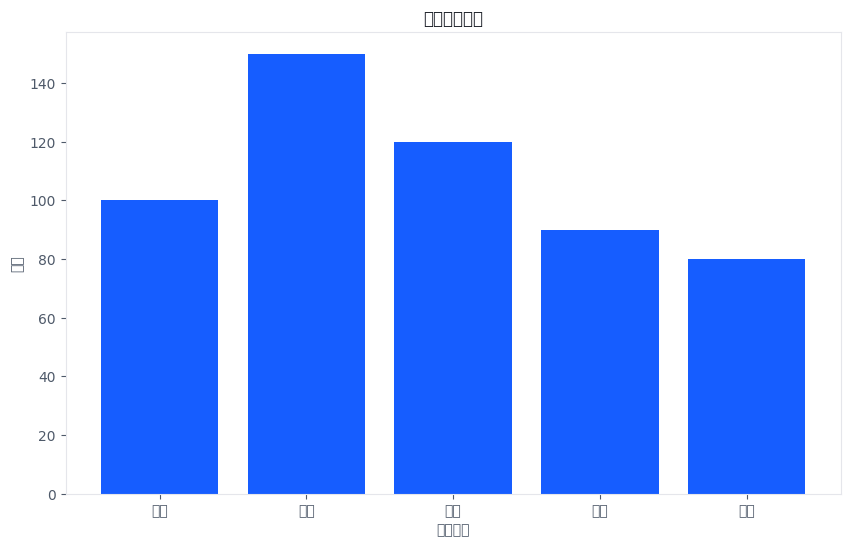
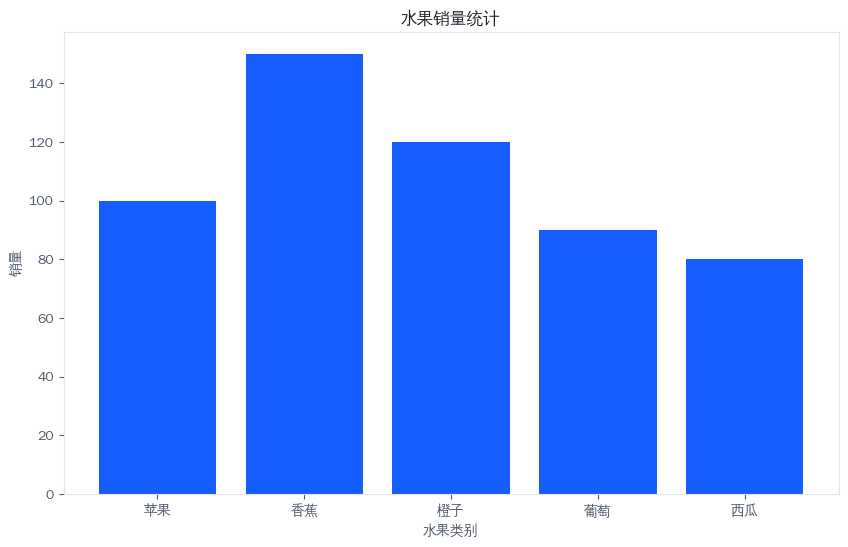
feat: 下载 Git

diff --git a/AxaltyX/src/axaltyx_plot/themes/arco_theme.py b/AxaltyX/src/axaltyx_plot/themes/arco_theme.py
@@ -76,7 +76,8 @@ def get_arco_theme():
         'legend.edgecolor': ARCO_GRAY_3,
         'patch.edgecolor': ARCO_WHITE,
         'lines.color': ARCO_PRIMARY,
-        'font.family': ['WenQuanYi Zen Hei', 'Microsoft YaHei', 'SimHei', 'sans-serif']
+        'font.family': ['WenQuanYi Zen Hei'],
+        'font.sans-serif': ['WenQuanYi Zen Hei', 'DejaVu Sans', 'sans-serif']
     }
 
 def get_arco_dark_theme():
@@ -94,7 +95,8 @@ def get_arco_dark_theme():
         'legend.edgecolor': ARCO_GRAY_6,
         'patch.edgecolor': ARCO_GRAY_8,
         'lines.color': ARCO_PRIMARY,
-        'font.family': ['WenQuanYi Zen Hei', 'Microsoft YaHei', 'SimHei', 'sans-serif']
+        'font.family': ['WenQuanYi Zen Hei'],
+        'font.sans-serif': ['WenQuanYi Zen Hei', 'DejaVu Sans', 'sans-serif']
     }
 
 def get_minimal_theme():
@@ -112,7 +114,8 @@ def get_minimal_theme():
         'legend.edgecolor': 'none',
         'patch.edgecolor': ARCO_WHITE,
         'lines.color': ARCO_PRIMARY,
-        'font.family': ['WenQuanYi Zen Hei', 'Microsoft YaHei', 'SimHei', 'sans-serif']
+        'font.family': ['WenQuanYi Zen Hei'],
+        'font.sans-serif': ['WenQuanYi Zen Hei', 'DejaVu Sans', 'sans-serif']
     }
 
 def get_theme(theme_name='arco'):

diff --git a/test_matplotlib_fonts.py b/test_matplotlib_fonts.py
@@ -1,0 +1,27 @@
+import matplotlib.font_manager as fm
+import matplotlib.pyplot as plt
+
+# 打印 matplotlib 字体搜索路径
+print("Matplotlib font search paths:")
+for path in fm.findSystemFonts()[:10]:  # 只打印前10个路径
+    print(f"  - {path}")
+
+# 打印可用的中文字体
+print("\nAvailable Chinese fonts:")
+for font in fm.fontManager.ttflist:
+    if 'WenQuanYi' in font.name or 'wqy' in font.name.lower() or 'zenhei' in font.name.lower():
+        print(f"  - {font.name} ({font.fname})")
+
+# 测试当前字体设置
+print("\nCurrent font settings:")
+print(f"  Default font family: {plt.rcParams['font.family']}")
+print(f"  Font size: {plt.rcParams['font.size']}")
+
+# 测试中文显示
+plt.figure(figsize=(8, 4))
+plt.title('测试中文显示')
+plt.xlabel('横坐标')
+plt.ylabel('纵坐标')
+plt.text(0.5, 0.5, '你好，世界！', fontsize=16, ha='center')
+plt.savefig('test_chinese_display.png', bbox_inches='tight')
+print("\nTest plot saved as 'test_chinese_display.png'")
